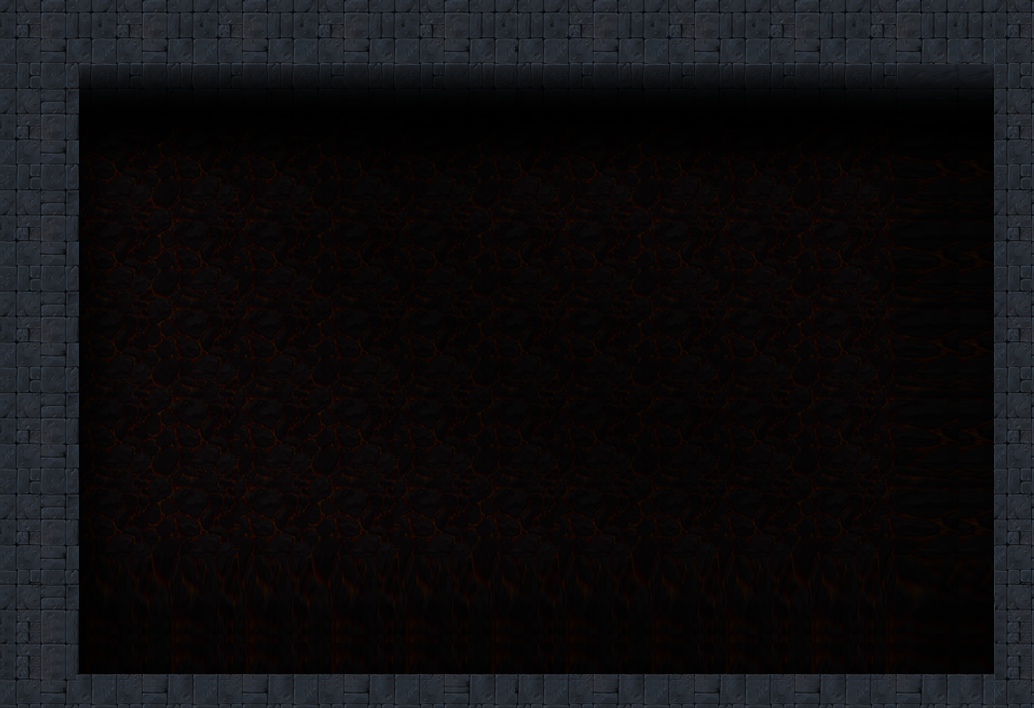
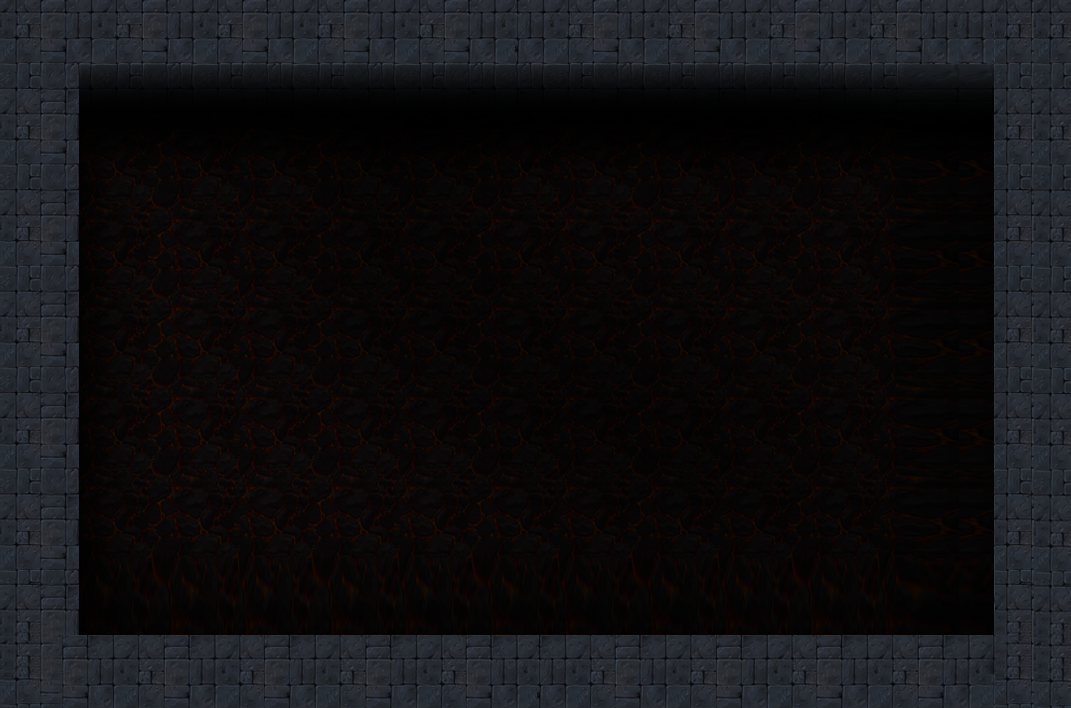
Comienzos de la estructuración de niveles y material para la imagen del menu principal

diff --git a/TheWeirdWay.py b/TheWeirdWay.py
@@ -8,11 +8,9 @@ print("=" * len(titulo) + "\n" + titulo + "\n" + "=" * len(titulo), "\n")
 # -- -- -- Variables e imagenes previas
 
 # Tamaños
-tamaño = 26
-columnas = 40
-filas = 27
-ancho = (tamaño * columnas) - 6
-alto = (tamaño * filas) + 6
+
+ancho = 1071
+alto = 708
 
 # Colores
 c_fondo = "#1c1b20"
@@ -30,14 +28,14 @@ c_bg_press_win = "#ffd00d"
 root = Tk()
 root.title(titulo)
 root.resizable(False, False)
-root.geometry("{}x{}+{}+{}".format(ancho - 6, alto, 245, 55))
+root.geometry("{}x{}+{}+{}".format(ancho, alto, 245, 55))
 root.iconbitmap("LucioPalIco.ico")
 root.config(bg=c_fondo)
 
 # -- -- -- Imagenes
 
 logo_img = PhotoImage(file="Imagenes/Logo.png")
-fondo_img = PhotoImage(file="Imagenes/Fondo4.png")
+fondo_img = PhotoImage(file="Imagenes/Fondo3.png")
 player_img = PhotoImage(file="Imagenes/Red_Skull2.png")
 
 puente_x_img = PhotoImage(file="Imagenes/PuenteX.png")  # X
@@ -225,16 +223,28 @@ class Partida:  # Ancho base = 76 * | Alto base = 71 *
 
     def nivel_1(self, act):  # "init" = Crear | "game" = Acción del juego
         if act == "init":
-            self.puente1 = [graficos.create_image(76*2, 71*6,
+            self.puente1 = [graficos.create_image(153, 140*2,
+                                                  image=puente_acd_img), "acd"]
+            self.puente2 = [graficos.create_image(153, 140*3,
+                                                  image=puente_y_img), "y"]
+            self.puente3 = [graficos.create_image(153*2, 140*2,
+                                                  image=puente_xy_img), "xy"]
+            self.puente4 = [graficos.create_image(153*2, 140*3,
+                                                  image=puente_bc_img), "bc"]
+            self.puente5 = [graficos.create_image(153*3, 140*3,
+                                                  image=puente_y_img), "y"]
+            self.puente6 = [graficos.create_image(153*4, 140*2,
+                                                  image=puente_bc_img), "bc"]
+            self.puente5 = [graficos.create_image(153*4, 140*6,
                                                   image=puente_ac_img), "ac"]
-            self.puente1 = [graficos.create_image(76*2, 71*4,
-                                                  image=puente_bd_img), "bd"]
-            self.puente1 = [graficos.create_image(76*2, 71*6,
+            self.puente5 = [graficos.create_image(153*5, 140*3,
+                                                  image=puente_y_img), "y"]
+            self.puente5 = [graficos.create_image(153*6, 140*3,
                                                   image=puente_ac_img), "ac"]
-            self.puente1 = [graficos.create_image(76*2, 71*6,
-                                                  image=puente_ac_img), "ac"]
-            self.puente1 = [graficos.create_image(76*2, 71*6,
-                                                  image=puente_ac_img), "ac"]
+            self.puente5 = [graficos.create_image(153*6, 140*2,
+                                                  image=puente_x_img), "x"]
+            self.puente5 = [graficos.create_image(153*6, 140,
+                                                  image=puente_ad_img), "ad"]
 
         graficos.lift(self.player)
 
